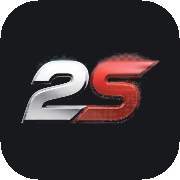
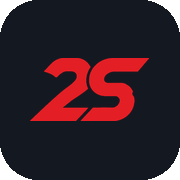
The summit behind the page, and the flat 2S mark
The mountain backdrop from bg-drafts.html goes live. It sits outside the nav
and main so the header is ON the photograph rather than in front of a white
bar, the hero fills the screen so the picture is the page instead of a band
across the top of it, and the copy over it flips to light. The scrim is the
one the draft settled on.

The logo was still the chrome mark -- a white 2 beside a red S, both with a
gradient and a bevel. The app replaced it with the flat one-red 2S weeks
ago; the site is on it now too, taken from the app's own splash mark so the
two cannot drift. The nav lockup, the favicon, the Apple touch icon and the
PWA icon all come off that one file.

(og.png is still the old mark -- it is a composed social card, not a
straight resize, so it wants doing by hand.)

diff --git a/styles.redesign.css b/styles.redesign.css
@@ -522,6 +522,46 @@ video::-webkit-media-controls, video::-webkit-media-controls-enclosure { display
   .hero-visual.phones { min-height: 600px; }
   .hero-visual.phones .phone { width: 270px; }
 }
+/* ── the backdrop ──────────────────────────────────────────────────────────
+   The summit at dawn behind the whole page, the nav and the logo included
+   (the drafts are in bg-drafts.html, which tried four of these). The hero
+   fills the screen so the photograph IS the page rather than a band across
+   the top of it, and the copy over it flips to light. */
+.scene { position: fixed; inset: 0; z-index: 0; overflow: hidden; pointer-events: none; }
+.scene .photo { position: absolute; inset: 0; width: 100%; height: 100%; object-fit: cover; display: block; }
+.scene .scrim {
+  position: absolute; inset: 0;
+  background: linear-gradient(100deg, rgba(8,11,16,.80) 0%, rgba(8,11,16,.52) 46%, rgba(8,11,16,.30) 100%);
+}
+.nav, main { position: relative; z-index: 1; }
+
+.hero { min-height: calc(100svh - 128px); display: flex; align-items: center; padding-bottom: clamp(36px, 7vw, 72px); }
+.hero > .wrap { width: 100%; }
+
+/* over a photograph the nav drops its white blur and goes light */
+.nav { background: transparent; -webkit-backdrop-filter: none; backdrop-filter: none; border-bottom-color: transparent; }
+.nav .brand { color: #fff; }
+.nav-links a:not(.btn) { color: #ded7d6; }
+.nav-links a:not(.btn):hover { color: #fff; }
+
+/* out to the corners: a wider field than the rest of the page */
+.nav .wrap, .hero .wrap {
+  max-width: 1460px;
+  padding-inline: max(22px, env(safe-area-inset-left, 0px)) max(22px, env(safe-area-inset-right, 0px));
+}
+@media (min-width: 1100px) {
+  .nav .wrap, .hero .wrap { padding-inline: clamp(32px, 4.4vw, 76px); }
+  .hero-inner { grid-template-columns: 1.06fr 0.94fr; gap: clamp(40px, 5vw, 76px); }
+  .hero h1 { font-size: clamp(3.1rem, 5.4vw, 5.2rem); max-width: 15ch; line-height: 1.02; }
+  .hero .lede { max-width: 44rem; font-size: 1.22rem; }
+  .facts { max-width: 46rem; row-gap: 10px; }
+}
+.hero h1 { color: #fff; }
+.hero .lede, .hero .facts li, .hero .cta-note { color: #e9e3e2; }
+.hero h1 .red { color: #ff5257; }
+.hero .btn.soon { background: rgba(255,255,255,.1); border-color: rgba(255,255,255,.34); color: #fff; }
+.hero .facts a { color: #ff8488; }
+
 /* one phone beside a column of copy (Make it yours) */
 .split .solo-shot { width: min(260px, 72vw); justify-self: center; }
 

diff --git a/index.html b/index.html
@@ -25,7 +25,7 @@
 <link rel="preconnect" href="https://fonts.gstatic.com" crossorigin>
 <!-- reuse the current site's display font (Outfit) -->
 <link href="https://fonts.googleapis.com/css2?family=Outfit:wght@400;500;600;700;800;900&display=swap" rel="stylesheet">
-<link rel="stylesheet" href="styles.redesign.css?v=29">
+<link rel="stylesheet" href="styles.redesign.css?v=30">
 <!-- the saved light/dark choice, read before a pixel is painted -->
 <script>try{var t=localStorage.getItem('2s-theme');if(t==='dark'||t==='light')document.documentElement.dataset.theme=t;}catch(e){}</script>
 </head>
@@ -47,9 +47,17 @@
 --------------------------------------------------------------------- -->
 
 <!-- ======================= NAV ======================= -->
+<!-- The page's backdrop: the summit at dawn (bg-drafts.html tried four, this
+     is the one that was picked). It sits outside the nav and main so the
+     header sits on the photograph rather than in front of a white bar. -->
+<div class="scene" aria-hidden="true">
+  <img class="photo" src="img/bg/summit.jpg" alt="" width="2000" height="1333" fetchpriority="high">
+  <div class="scrim"></div>
+</div>
+
 <header class="nav" id="nav">
   <div class="wrap">
-    <a class="brand" href="#top"><img class="mk-dark" src="img/logo-2s.png" alt="" width="433" height="230"><img class="mk-light" src="img/logo-2s-light.png" alt="" width="433" height="230"><span class="word">2Sets<b>Fitness</b></span></a>
+    <a class="brand" href="#top"><img class="mk-dark" src="img/logo-2s.png?v=2" alt="" width="433" height="230"><img class="mk-light" src="img/logo-2s-light.png?v=2" alt="" width="433" height="230"><span class="word">2Sets<b>Fitness</b></span></a>
     <nav class="nav-links" aria-label="Primary">
       <a href="#features">Features</a>
       <a href="#see">See it</a>
